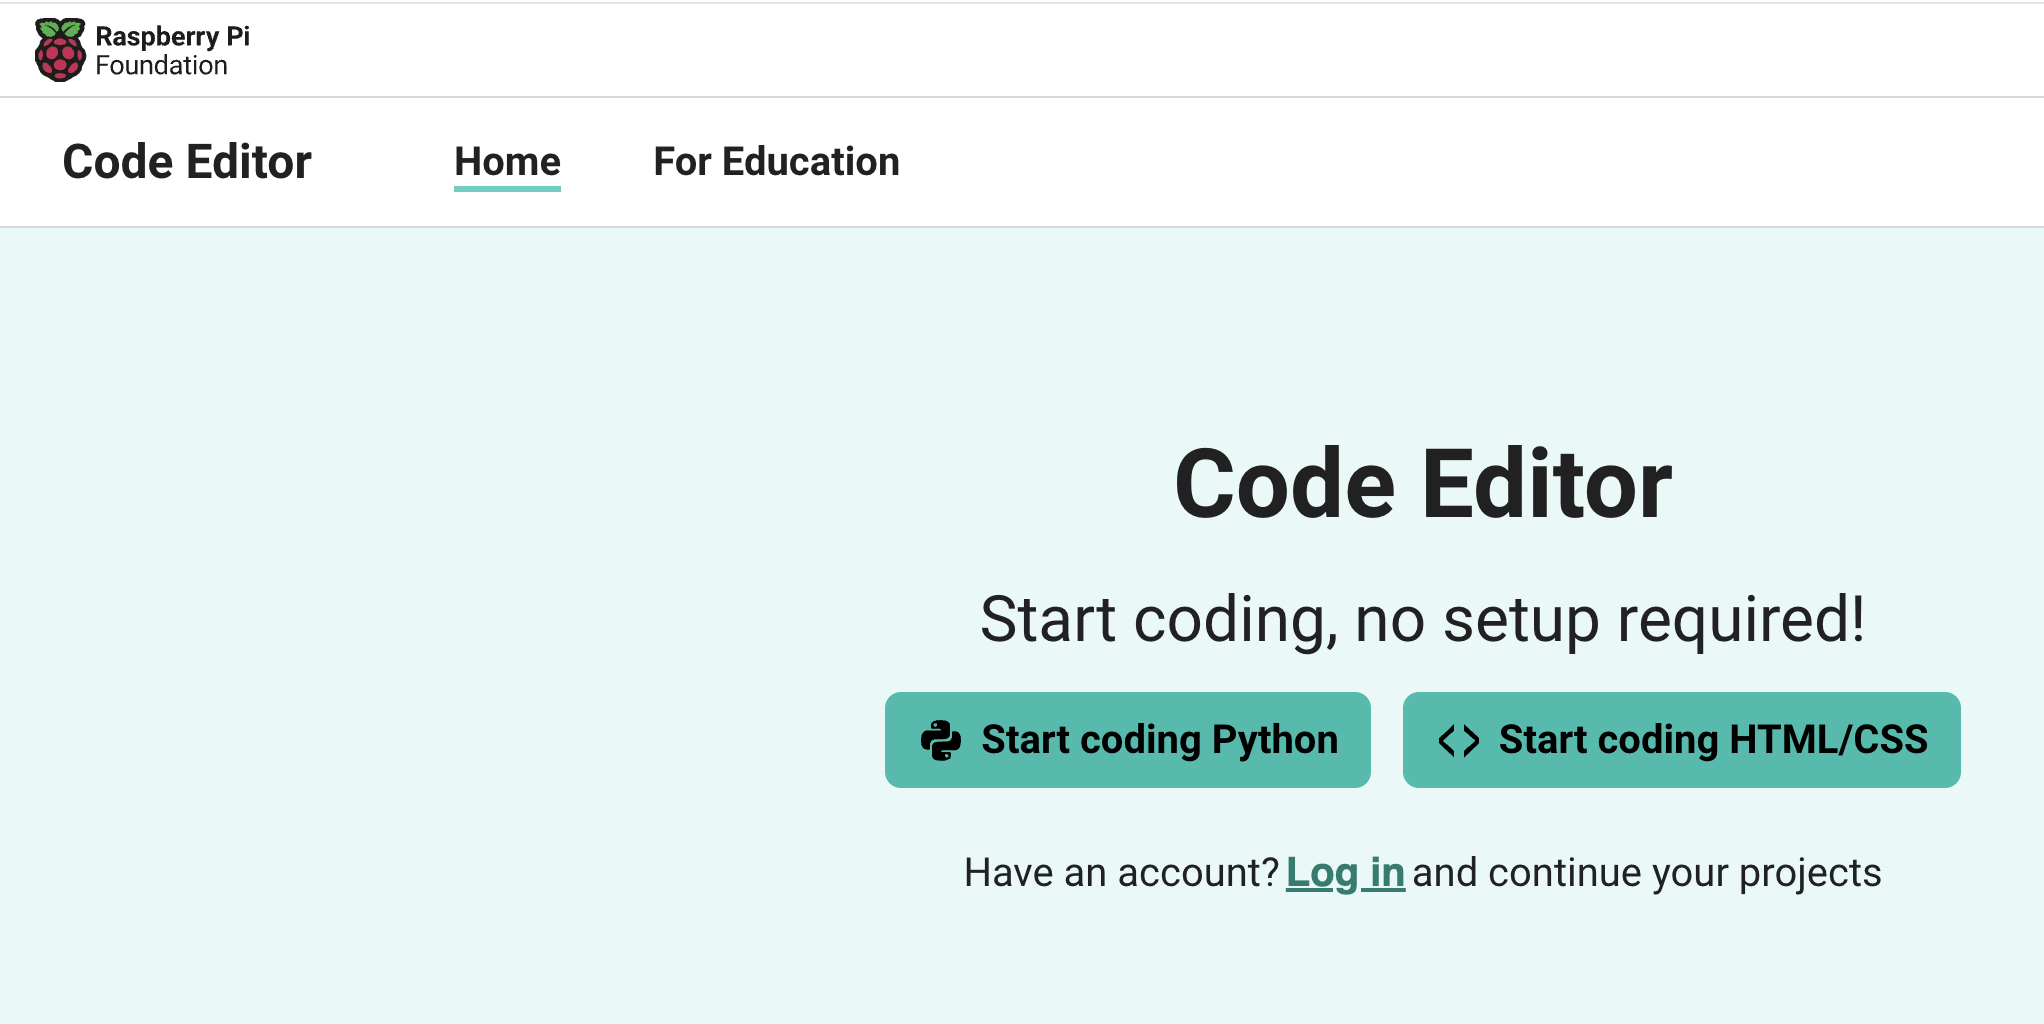
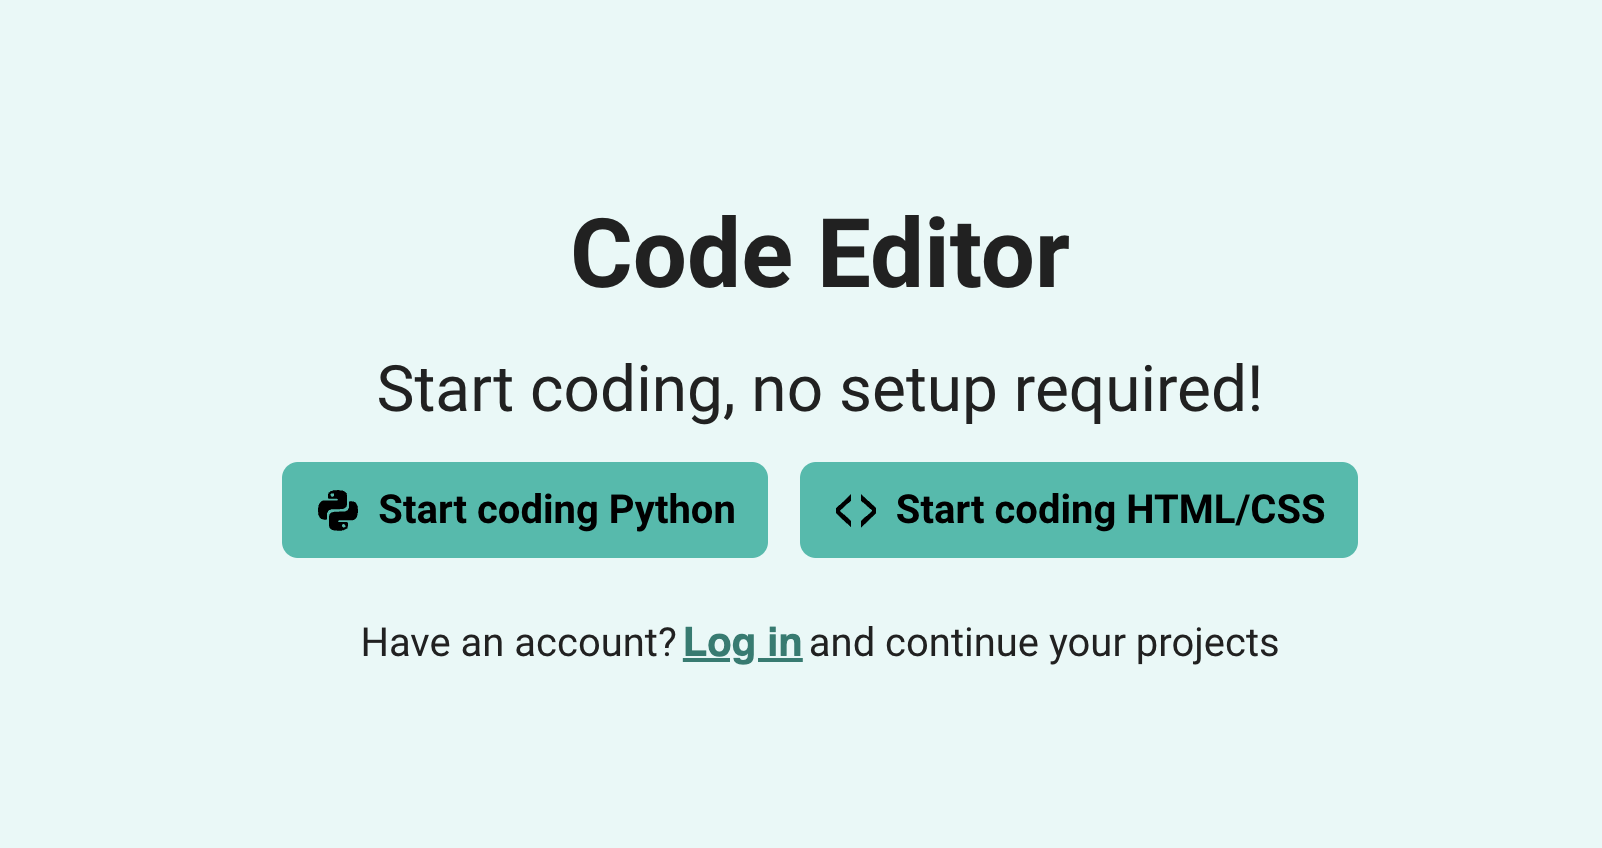
Replace assets

diff --git a/src/app/components/ProjectsSection/projectsData.js b/src/app/components/ProjectsSection/projectsData.js
@@ -4,22 +4,30 @@
  */
 
 export const projectsData = [
+    {
+    title: "Medical Tracker",
+    description:
+      "The Medical Tracker is a web application designed to help users manage their health data effectively. Built with React and Node.js, it offers features like medication tracking, appointment scheduling, and health reminders.",
+    url: "https://www.medicaltracker.co.uk/",
+    imageUrl: "/projects/mtl.png",
+    imageAlt: "Screenshot of Medical Tracker application showing user dashboard",
+  },
   {
     title: "Code Editor",
     description:
       "The Raspberry Pi Code Editor is a browser-based platform designed to help young learners explore coding in an intuitive and interactive environment. Built with React for a responsive user interface and CodeMirror for powerful code editing functionality, it supports HTML and Python projects.",
     url: "https://editor.raspberrypi.org/en",
-    imageUrl: "/projects/editor2.png",
+    imageUrl: "/projects/editor.png",
     imageAlt: "Screenshot of Raspberry Pi Code Editor interface showing code editing capabilities",
   },
-  {
-    title: "Weather App",
-    description:
-      "Real-time weather forecasts using React and OpenWeatherMap API. Provides current conditions, hourly and 5-day forecasts, with an intuitive and responsive design.",
-    url: "https://www.weather.jadach.dev",
-    imageUrl: "/projects/weather.png",
-    imageAlt: "Screenshot of Weather App displaying current weather conditions and forecast",
-  },
+  // {
+  //   title: "Weather App",
+  //   description:
+  //     "Real-time weather forecasts using React and OpenWeatherMap API. Provides current conditions, hourly and 5-day forecasts, with an intuitive and responsive design.",
+  //   url: "https://www.weather.jadach.dev",
+  //   imageUrl: "/projects/weather.png",
+  //   imageAlt: "Screenshot of Weather App displaying current weather conditions and forecast",
+  // },
   {
     title: "Projects Site",
     description:
